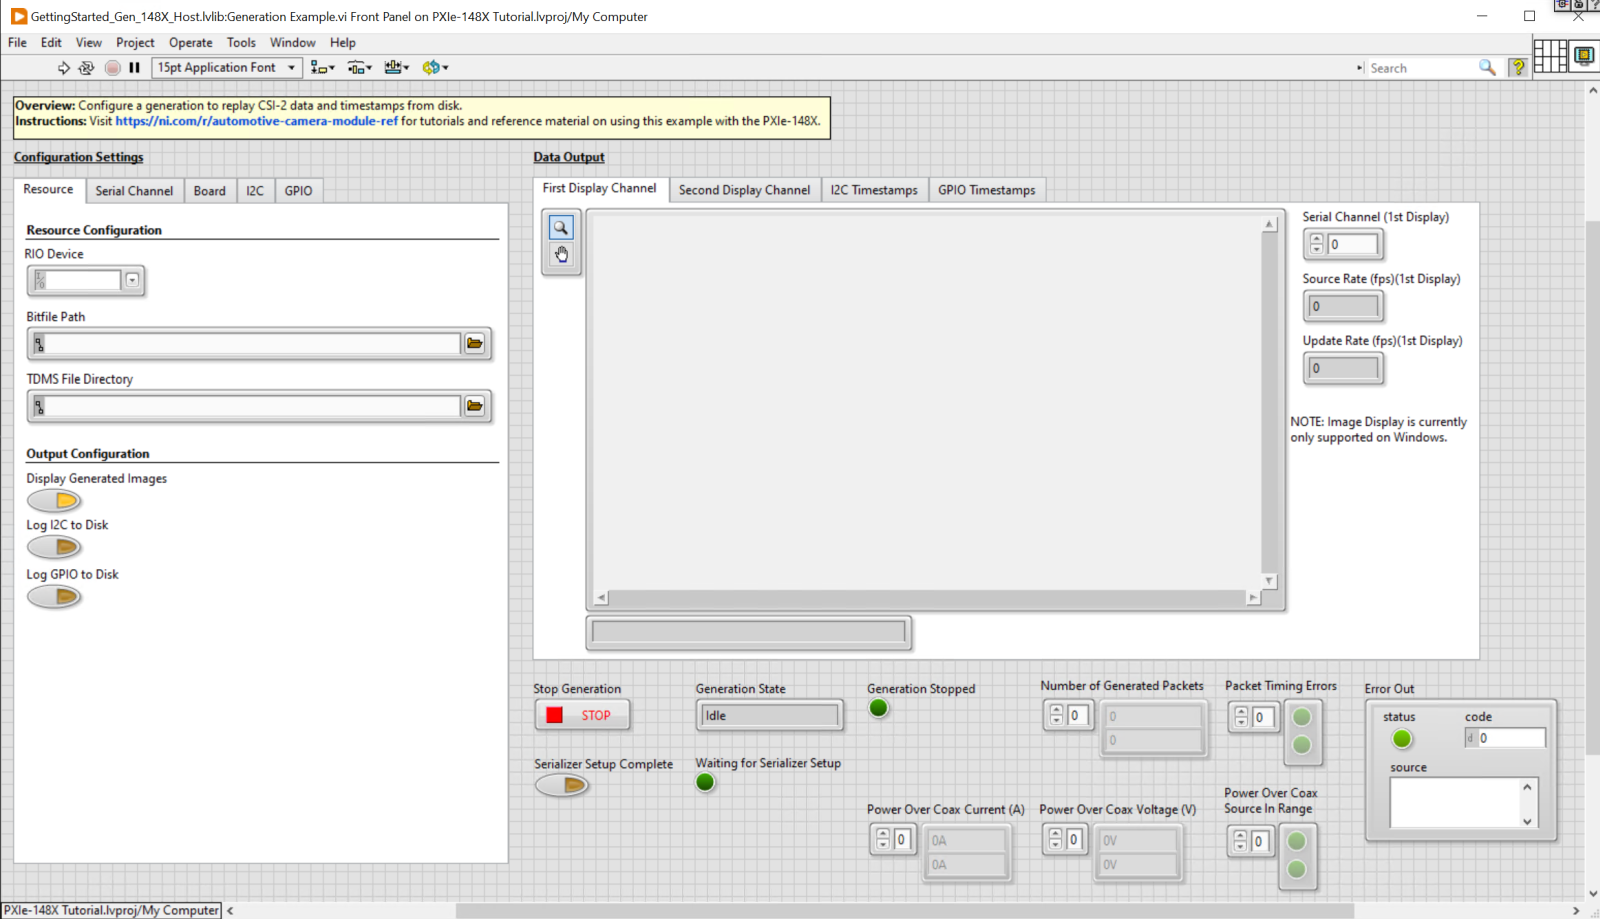
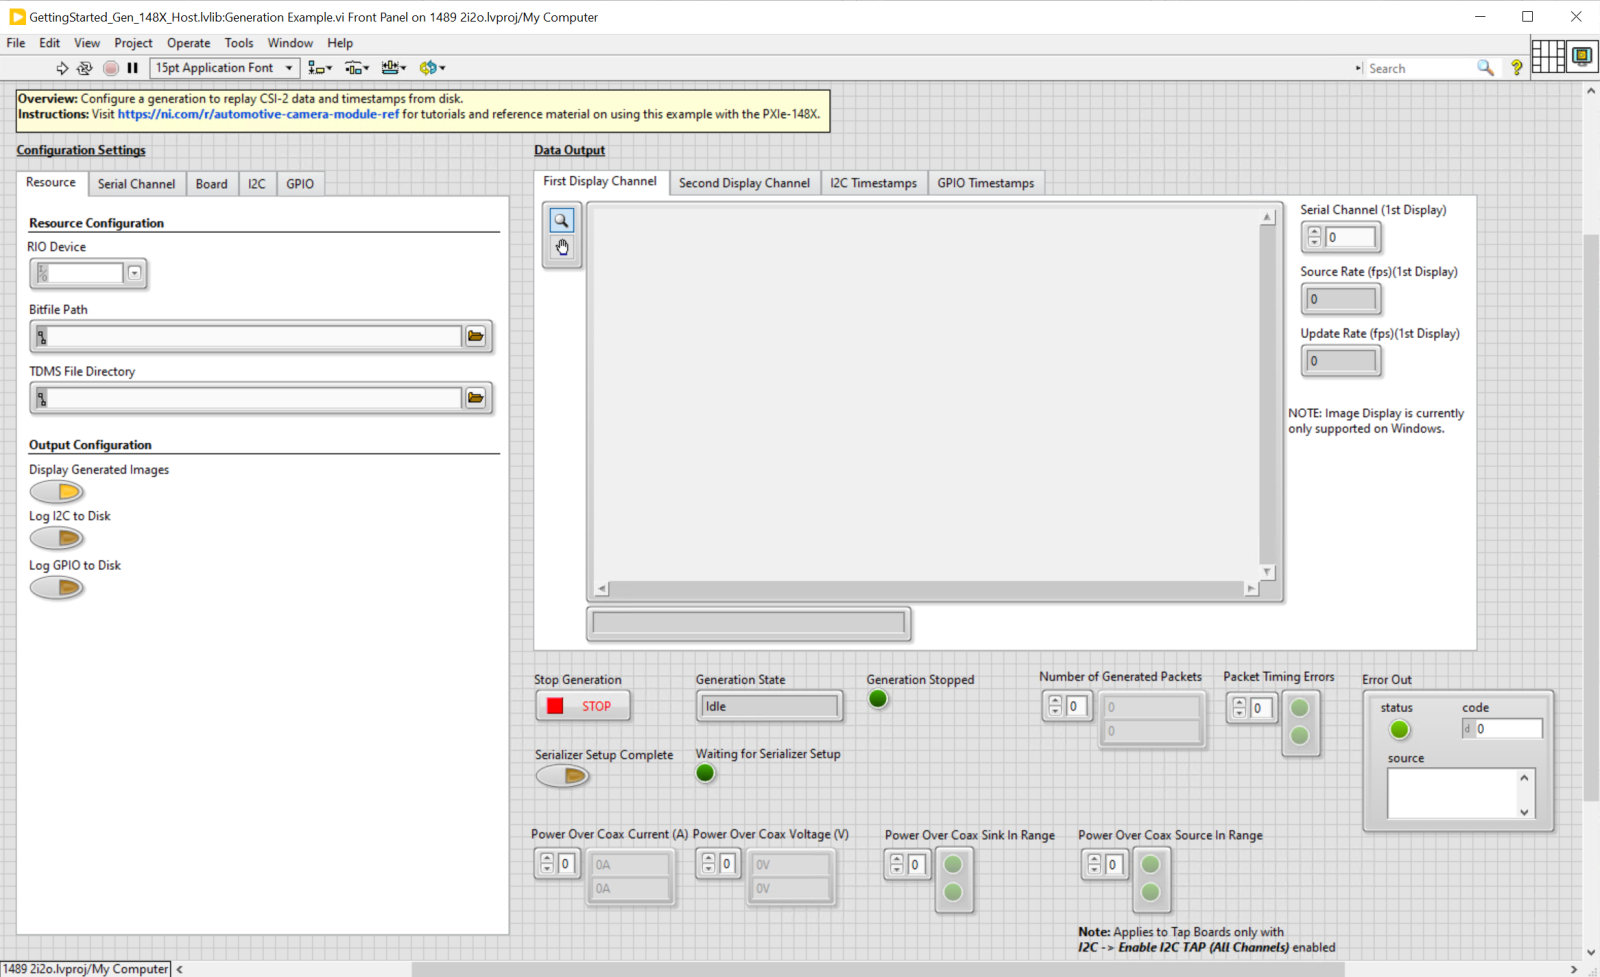
Add PoC Source update for GenGSE and 1487F variant details (#26)
* Update GenGSE front panel image

* Add PoC source details to GenGSE help

* Add 96717F variants to module details

* Clarify specific modules for tutorial

Changed region(s): [[0.0, 0.0, 1.0, 1.0], [0.0, 0.914, 0.3125, 1.0], [0.9688, 0.975, 1.0, 1.0]]

diff --git a/docs/reference/hardware/automotive-camera-module-variants.md b/docs/reference/hardware/automotive-camera-module-variants.md
@@ -65,25 +65,29 @@ This document contains reference information on various properties of PXIe-148X 
 
 ### Hardware Details
 
-| Model Number           | Channels     | Protocol | Serializer | Deserializer | Slot Count | Front Panel Overlay               |
-|------------------------|--------------|----------|------------|--------------|------------|-----------------------------------|
-| PXIe-1487 Deserializer | 8 input      | GMSL1/2  | N/A        | MAX9296A     | 2          | FlexRIO GMSL2 9296A Deserializer  |
-| PXIe-1487 Serializer   | 8 output     | GMSL1/2  | MAX9295A   | N/A          | 2          | FlexRIO GMSL2 9295A Serializer    |
-| PXIe-1487 SerDes       | 4 in / 4 out | GMSL1/2  | MAX9295A   | MAX9296A     | 2          | FlexRIO GMSL2 9295A/9296A SerDes  |
-| PXIe-1487 Deserializer | 8 input      | GMSL1/2  | N/A        | MAX96716A    | 2          | FlexRIO GMSL2 96716A Deserializer |
-| PXIe-1487 Serializer   | 8 output     | GMSL1/2  | MAX96717   | N/A          | 2          | FlexRIO GMSL2 96717 Serializer    |
-| PXIe-1487 SerDes       | 4 in / 4 out | GMSL1/2  | MAX96717   | MAX96716A    | 2          | FlexRIO GMSL2 96717/96716A SerDes |
+| Model Number           | Channels     | Protocol | Serializer | Deserializer | Slot Count | Front Panel Overlay                |
+|------------------------|--------------|----------|------------|--------------|------------|------------------------------------|
+| PXIe-1487 Deserializer | 8 input      | GMSL1/2  | N/A        | MAX9296A     | 2          | FlexRIO GMSL2 9296A Deserializer   |
+| PXIe-1487 Serializer   | 8 output     | GMSL1/2  | MAX9295A   | N/A          | 2          | FlexRIO GMSL2 9295A Serializer     |
+| PXIe-1487 SerDes       | 4 in / 4 out | GMSL1/2  | MAX9295A   | MAX9296A     | 2          | FlexRIO GMSL2 9295A/9296A SerDes   |
+| PXIe-1487 Deserializer | 8 input      | GMSL1/2  | N/A        | MAX96716A    | 2          | FlexRIO GMSL2 96716A Deserializer  |
+| PXIe-1487 Serializer   | 8 output     | GMSL1/2  | MAX96717   | N/A          | 2          | FlexRIO GMSL2 96717 Serializer     |
+| PXIe-1487 SerDes       | 4 in / 4 out | GMSL1/2  | MAX96717   | MAX96716A    | 2          | FlexRIO GMSL2 96717/96716A SerDes  |
+| PXIe-1487 Serializer   | 8 output     | GMSL1/2  | MAX96717F  | N/A          | 2          | FlexRIO GMSL2 96717F Serializer    |
+| PXIe-1487 SerDes       | 4 in / 4 out | GMSL1/2  | MAX96717F  | MAX96716A    | 2          | FlexRIO GMSL2 96717F/96716A SerDes |
 
 ### Software Details
 
-| Model Number           | NI MAX Name                                             | LabVIEW FPGA Target Name          | FlexRIO First Supported    | Product ID | Model Alias |
-|------------------------|---------------------------------------------------------|-----------------------------------|----------------------------|------------|-------------|
-| PXIe-1487 Deserializer | NI PXIe-1487 (8 In - 9296A Deserializer - KU11P)        | NI PXIe-1487 (8 In - KU11P)       | [20.6](#compat-note)       | 0x7A85     | 1487_8I     |
-| PXIe-1487 Serializer   | NI PXIe-1487 (8 Out - 9295A Serializer - KU11P)         | NI PXIe-1487 (8 Out - KU11P)      | [20.7](#compat-note)       | 0x7A86     | 1487_8O     |
-| PXIe-1487 SerDes       | NI PXIe-1487 (4 In/4 Out - 9295A/9296A SerDes - KU11P)  | NI PXIe-1487 (4 In 4 Out - KU11P) | [20.6](#compat-note)       | 0x7A87     | 1487_4I_4O  |
-| PXIe-1487 Deserializer | NI PXIe-1487 (8 In - 96716A Deserializer - KU11P)       | NI PXIe-1487 (8 In - KU11P)       | [2022 Q4](#compat-note)    | 0x7A85     | 1487_8I     |
-| PXIe-1487 Serializer   | NI PXIe-1487 (8 Out - 96717 Serializer - KU11P)         | NI PXIe-1487 (8 Out - KU11P)      | [2022 Q4](#compat-note)    | 0x7A86     | 1487_8O     |
-| PXIe-1487 SerDes       | NI PXIe-1487 (4 In/4 Out - 96717/96716A SerDes - KU11P) | NI PXIe-1487 (4 In 4 Out - KU11P) | [2022 Q4](#compat-note)    | 0x7A87     | 1487_4I_4O  |
+| Model Number           | NI MAX Name                                              | LabVIEW FPGA Target Name          | FlexRIO First Supported    | Product ID | Model Alias |
+|------------------------|----------------------------------------------------------|-----------------------------------|----------------------------|------------|-------------|
+| PXIe-1487 Deserializer | NI PXIe-1487 (8 In - 9296A Deserializer - KU11P)         | NI PXIe-1487 (8 In - KU11P)       | [20.6](#compat-note)       | 0x7A85     | 1487_8I     |
+| PXIe-1487 Serializer   | NI PXIe-1487 (8 Out - 9295A Serializer - KU11P)          | NI PXIe-1487 (8 Out - KU11P)      | [20.7](#compat-note)       | 0x7A86     | 1487_8O     |
+| PXIe-1487 SerDes       | NI PXIe-1487 (4 In/4 Out - 9295A/9296A SerDes - KU11P)   | NI PXIe-1487 (4 In 4 Out - KU11P) | [20.6](#compat-note)       | 0x7A87     | 1487_4I_4O  |
+| PXIe-1487 Deserializer | NI PXIe-1487 (8 In - 96716A Deserializer - KU11P)        | NI PXIe-1487 (8 In - KU11P)       | [2022 Q4](#compat-note)    | 0x7A85     | 1487_8I     |
+| PXIe-1487 Serializer   | NI PXIe-1487 (8 Out - 96717 Serializer - KU11P)          | NI PXIe-1487 (8 Out - KU11P)      | [2022 Q4](#compat-note)    | 0x7A86     | 1487_8O     |
+| PXIe-1487 SerDes       | NI PXIe-1487 (4 In/4 Out - 96717/96716A SerDes - KU11P)  | NI PXIe-1487 (4 In 4 Out - KU11P) | [2022 Q4](#compat-note)    | 0x7A87     | 1487_4I_4O  |
+| PXIe-1487 Serializer   | NI PXIe-1487 (8 Out - 96717F Serializer - KU11P)         | NI PXIe-1487 (8 Out - KU11P)      | [2023 Q1](#compat-note)    | 0x7A86     | 1487_8O     |
+| PXIe-1487 SerDes       | NI PXIe-1487 (4 In/4 Out - 96717F/96716A SerDes - KU11P) | NI PXIe-1487 (4 In 4 Out - KU11P) | [2023 Q1](#compat-note)    | 0x7A87     | 1487_4I_4O  |
 
 <a id="compat-note"></a>
 > (\*) Full details on hardware and OS compatibility can be found [here](https://www.ni.com/en-us/support/documentation/compatibility/21/ni-hardware-and-operating-system-compatibility.html) on ni.com.

diff --git a/docs/reference/gettingstartedexample/gse-gen-help.md b/docs/reference/gettingstartedexample/gse-gen-help.md
@@ -82,6 +82,14 @@ Refer to this document to understand the elements of the getting started example
   | **None**      | Power over coax disabled.                                  |
   | **Auxiliary** | Route received power over coax to the AUX POWER connector. |
 
+- **Power Over Coax Source** - The source used to provide power over coax on active serial input channels. (Applies to Tap Boards only with [I2C -> Enable I2C TAP (All Channels)](#i2c-tab) enabled)
+    
+  | Value     | Description                                                         |
+  |-----------|---------------------------------------------------------------------|
+  | None      | No power over coax provided.                                        |
+  | Internal  | Use internal power source to provide power over coax.               |
+  | Auxiliary | User power from the AUX POWER connector to provide power over coax. |
+
 - **Reference Clock Frequency (Hz)** - The frequency of the reference clock provided to the reference clock input of the SerDes. GMSL SerDes do not support changing this value from the default of 25 MHz. However for FPD-Link SerDes, in certain modes of operation, you may need to adjust this value and should consult the specifications for your SerDes for more information about supported reference clock frequencies and clocking modes.
 
 - **Requested Serial Output Data Rate (bps)** - Specifies the desired serializer data rate. Passing a requested value of -1 uses the maximum data rate for the board.
@@ -148,6 +156,7 @@ Refer to this document to understand the elements of the getting started example
 - **Power Over Coax Current (A)** - Displays the power over coax current draw, in amps, for all active serial output channels.
 - **Power Over Coax Voltage (V)** - Displays the power over coax voltage level, in volts, for all active serial output channels.
 - **Power Over Coax Sink In Range** - Indicates whether the power over coax voltage level is in range for all active serial output channels.
+- **Power Over Coax Source In Range** - Indicates if the power over coax voltage level is in range for all active serial input channels. (Applies to Tap Boards only with [I2C -> Enable I2C TAP (All Channels)](#i2c-tab) enabled)
 - **Error Out** - Displays any error that occurred during the generation.
 
 ## Related Documents

diff --git a/docs/tutorials/gettingstartedexample/gse-acq-basic.md b/docs/tutorials/gettingstartedexample/gse-acq-basic.md
@@ -21,12 +21,12 @@ Basic knowledge of LabVIEW and LabVIEW FPGA concepts.
 
 A supported interface module and camera on a PXI system running Windows.
 
-| **Interface Module**   | **Camera**                                                                                                                            |
-|------------------------|---------------------------------------------------------------------------------------------------------------------------------------|
-| PXIe-1486 (8 In)       | [LI-IMX490-FPDLINKIII](https://www.leopardimaging.com/product-category/autonomous-camera/ti-fpdlinkiii-cameras/li-imx490-fpdlinkiii/) |
-| PXIe-1486 (4 In 4 Out) | [LI-IMX490-FPDLINKIII](https://www.leopardimaging.com/product-category/autonomous-camera/ti-fpdlinkiii-cameras/li-imx490-fpdlinkiii/) |
-| PXIe-1487 (8 In)       | [LI-IMX490-GMSL2](https://www.leopardimaging.com/product-category/autonomous-camera/maxim-gmsl2-cameras/li-imx490-gmsl2/)             |
-| PXIe-1487 (4 In 4 Out) | [LI-IMX490-GMSL2](https://www.leopardimaging.com/product-category/autonomous-camera/maxim-gmsl2-cameras/li-imx490-gmsl2/)             |
+| **Interface Module**   | **Camera**                                                                                                                                                 |
+|------------------------|------------------------------------------------------------------------------------------------------------------------------------------------------------|
+| PXIe-1486 (8 In - 954 Deserializer)         | [LI-IMX490-FPDLINKIII](https://www.leopardimaging.com/product-category/autonomous-camera/ti-fpdlinkiii-cameras/li-imx490-fpdlinkiii/) |
+| PXIe-1486 (4 In 4 Out - 953/954 SerDes)     | [LI-IMX490-FPDLINKIII](https://www.leopardimaging.com/product-category/autonomous-camera/ti-fpdlinkiii-cameras/li-imx490-fpdlinkiii/) |
+| PXIe-1487 (8 I - 9296A Deserializer)        | [LI-IMX490-GMSL2](https://www.leopardimaging.com/product-category/autonomous-camera/maxim-gmsl2-cameras/li-imx490-gmsl2/)             |
+| PXIe-1487 (4 In 4 Out - 9295A/9296A SerDes) | [LI-IMX490-GMSL2](https://www.leopardimaging.com/product-category/autonomous-camera/maxim-gmsl2-cameras/li-imx490-gmsl2/)             |
 
 ## Initial Hardware Setup
 

diff --git a/docs/tutorials/gettingstartedexample/gse-gen-basic.md b/docs/tutorials/gettingstartedexample/gse-gen-basic.md
@@ -19,12 +19,12 @@ Basic knowledge of LabVIEW and LabVIEW FPGA concepts.
 
 A supported interface module on a PXI system running a compatible Windows version.
 
-| **Interface Modules**   |
-|------------------------|
-| PXIe-1486 (8 Out)      |
-| PXIe-1486 (4 In 4 Out) |
-| PXIe-1487 (8 Out)      |
-| PXIe-1487 (4 In 4 Out) |
+| **Interface Modules**                       |
+|---------------------------------------------|
+| PXIe-1486 (8 Out - 953 Serializer)          |
+| PXIe-1486 (4 In 4 Out - 953/954 SerDes)     |
+| PXIe-1487 (8 Out - 9295A Serializer)        |
+| PXIe-1487 (4 In 4 Out - 9295A/9296A SerDes) |
 
 ## Initial Hardware Setup
 
